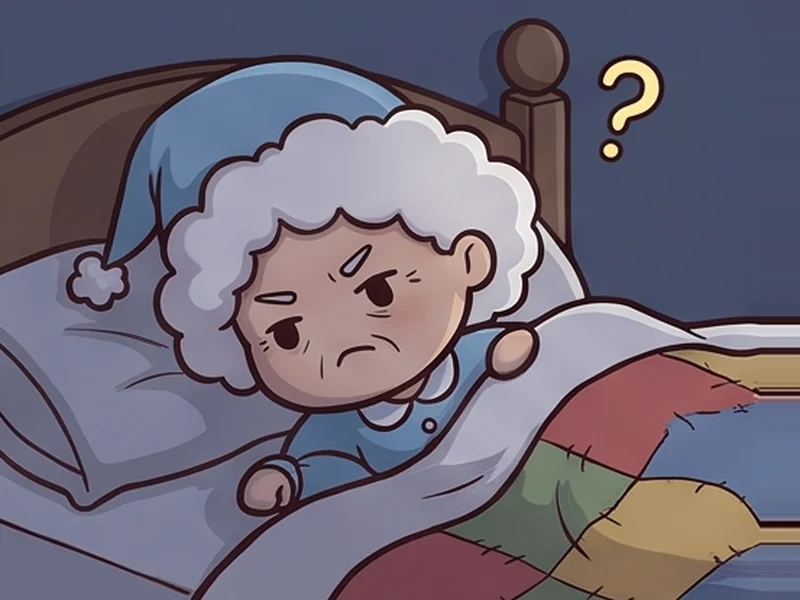
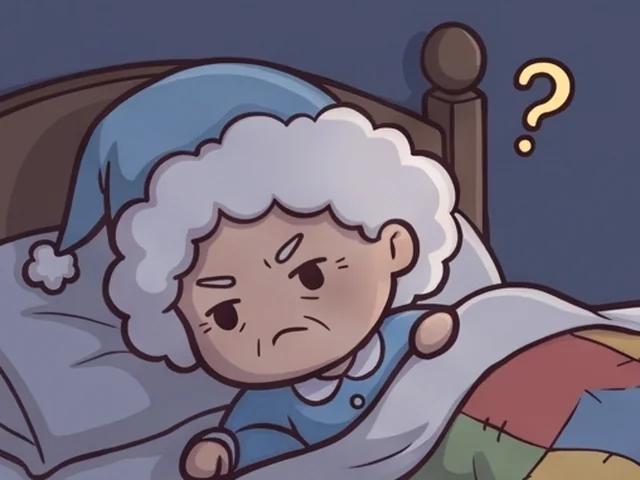
Grandma: 12-frame sleep, tossing and awake animations; consistent sounds across games
- Cut, align and frame the three new 12-panel sheets (36 frames, 640x480 webp)
- Squirrel Run uses the same levels as Grandma and the Sandbox (0.5, far 0.55,
  natural pitch), the hadeda recording for the squawk, Grandma's catch chime for
  acorns, and Grandma's wake sting when Shema catches you
- Picker test waits for the game's first load before reloading it

diff --git a/squirrel.html b/squirrel.html
@@ -1081,14 +1081,17 @@
       master.connect(comp); comp.connect(out);
       noiseBuf = ac.createBuffer(1, ac.sampleRate * 2, ac.sampleRate);
       const d = noiseBuf.getChannelData(0); for (let i = 0; i < d.length; i++) d[i] = Math.random() * 2 - 1;
-      for (const k of ['squirrel', 'cat', 'taxi', 'owl', 'alarm'])
+      for (const k of ['squirrel', 'cat', 'taxi', 'owl', 'hadeda'])
         fetch(`assets/${k}.mp3`).then(r => r.arrayBuffer()).then(a => ac.decodeAudioData(a)).then(b => { BUF[k] = b; }).catch(() => { });
     }
     if (ac.state === 'suspended') ac.resume();
     return true;
   }
   const live = () => sound.on && ac && !paused;
-  function play(k, vol = 0.6, rate = 1, max = 0) {
+  // Same levels as Let Grandma Sleep and the Sandbox: every recording is levelled to -16 LUFS and plays
+  // at SOUND_LEVEL up close, never below FAR of that, and always at its natural pitch.
+  const SOUND_LEVEL = 0.5, FAR = 0.55;
+  function play(k, vol = SOUND_LEVEL, rate = 1, max = 0) {
     if (!live() || !BUF[k]) return false;
     const s = ac.createBufferSource(), g = ac.createGain(); s.buffer = BUF[k]; s.playbackRate.value = rate; g.gain.value = vol;
     s.connect(g); g.connect(master); s.start();
@@ -1096,7 +1099,7 @@
     if (max) { const t = ac.currentTime; g.gain.setValueAtTime(vol, t + max - 0.3); g.gain.linearRampToValueAtTime(0, t + max); s.stop(t + max + 0.05); }
     return true;
   }
-  function tone(f, at, dur, type = 'sine', vol = 0.15, f2) {
+  function tone(f, at, dur, type = 'sine', vol = 0.18, f2) {
     if (!live()) return;
     const t = ac.currentTime, o = ac.createOscillator(), g = ac.createGain(); o.type = type; o.frequency.setValueAtTime(f, t + at);
     if (f2) o.frequency.exponentialRampToValueAtTime(f2, t + at + dur);
@@ -1111,14 +1114,14 @@
     s.connect(f); f.connect(g); g.connect(master); s.start(t, Math.random()); s.stop(t + 0.2);
   }
   const sfx = {
-    jump() { if (Math.random() < 0.18) play('squirrel', 0.25, 1.1); else tone(520, 0, 0.08, 'triangle', 0.05, 760); },
+    jump() { if (Math.random() < 0.18) play('squirrel', SOUND_LEVEL * FAR); else tone(520, 0, 0.08, 'triangle', 0.05, 760); },
     land(L, kind) { const v = clamp((L - 30) / 40, 0.05, 1) * 0.5; if (kind === 'tin') { thump(v, 2600); tone(180, 0, 0.12, 'square', v * 0.2, 140); } else if (kind === 'tree') thump(v * 0.5, 700); else thump(v, 1200); },
-    acorn() { tone(880, 0, 0.07, 'triangle', 0.1); tone(1320, 0.05, 0.1, 'triangle', 0.1); },
+    acorn() { tone(660, 0, 0.12, 'triangle'); tone(990, 0.07, 0.18, 'triangle'); },   // the same chime as catching a noise in Grandma
     paws() { [660, 880, 1100].forEach((f, i) => tone(f, i * 0.07, 0.25, 'sine', 0.1)); },
-    cat() { if (!play('cat', 0.7, 1.2)) tone(700, 0, 0.4, 'sawtooth', 0.12, 1200); },
-    squawk() { tone(560, 0, 0.18, 'sawtooth', 0.14, 380); tone(560, 0.22, 0.2, 'sawtooth', 0.14, 360); },
-    taxi() { if (!play('taxi', 0.5)) { tone(466, 0, 0.15, 'square', 0.1); tone(466, 0.22, 0.15, 'square', 0.1); } },
-    caught() { if (!play('alarm', 0.35, 1, 3)) { tone(520, 0, 0.25, 'square', 0.12); tone(390, 0.22, 0.4, 'square', 0.12); } },
+    cat() { if (!play('cat')) tone(700, 0, 0.4, 'sawtooth', 0.12, 1200); },
+    squawk() { if (!play('hadeda')) { tone(560, 0, 0.18, 'sawtooth', 0.14, 380); tone(560, 0.22, 0.2, 'sawtooth', 0.14, 360); } },
+    taxi() { if (!play('taxi')) { tone(466, 0, 0.15, 'square', 0.1); tone(466, 0.22, 0.15, 'square', 0.1); } },
+    caught() { tone(520, 0, 0.25, 'square', 0.12); tone(390, 0.22, 0.4, 'square', 0.12); },   // the same sting as Grandma waking up
     fall() { tone(600, 0, 0.6, 'triangle', 0.15, 120); },
   };
   let nextOwl = 12, lockBeep = 0;
@@ -1134,7 +1137,7 @@
       rainNode.g.gain.setTargetAtTime(0.22 * W.rain, ac.currentTime, 0.2);
     } else if (rainNode) { rainNode.g.gain.setTargetAtTime(0, ac.currentTime, 0.2); if (W.rain <= 0.02) { const r = rainNode; setTimeout(() => { try { r.s.stop(); } catch (e) { } }, 600); rainNode = null; } }
     if (mode === 'play') {
-      nextOwl -= dt; if (nextOwl <= 0) { play('owl', 0.12); nextOwl = rnd(16, 26); }
+      nextOwl -= dt; if (nextOwl <= 0) { play('owl', SOUND_LEVEL * FAR); nextOwl = rnd(16, 26); }
       // rising beeps while Shema locks on
       if (W.lock > 0.15) { lockBeep -= dt; if (lockBeep <= 0) { tone(700 + W.lock * 700, 0, 0.05, 'square', 0.05); lockBeep = 0.32 - W.lock * 0.22; } }
     }

diff --git a/grandma.html b/grandma.html
@@ -374,11 +374,11 @@
   // ============================================================
   // A list of pictures for one state takes turns, like a slow animation.
   const GRANDMA_ART = {
-    sleep: [1, 2, 3, 4].map(i => `assets/grandma_sleep${i}.webp`),
-    stir: [1, 2, 3, 4].map(i => `assets/grandma_stir${i}.webp`),
-    awake: [1, 2, 3].map(i => `assets/grandma_awake${i}.webp`),   // frame 4 has a different background, so it is left out of the loop
+    sleep: Array.from({ length: 12 }, (_, i) => `assets/grandma_sleep${i + 1}.webp`),
+    stir: Array.from({ length: 12 }, (_, i) => `assets/grandma_stir${i + 1}.webp`),
+    awake: Array.from({ length: 12 }, (_, i) => `assets/grandma_awake${i + 1}.webp`),
   };
-  const GRANDMA_FRAME_S = { sleep: 0.6, stir: 0.28, awake: 0.22 };   // seconds each picture stays
+  const GRANDMA_FRAME_S = { sleep: 0.26, stir: 0.16, awake: 0.13 };   // seconds each picture stays
 
   // NOISE SPRITES: a file name per noise: a horizontal strip of 6 square frames facing right
   // (or { src, frames, fps } for another count). Empty = the emoji is used.
